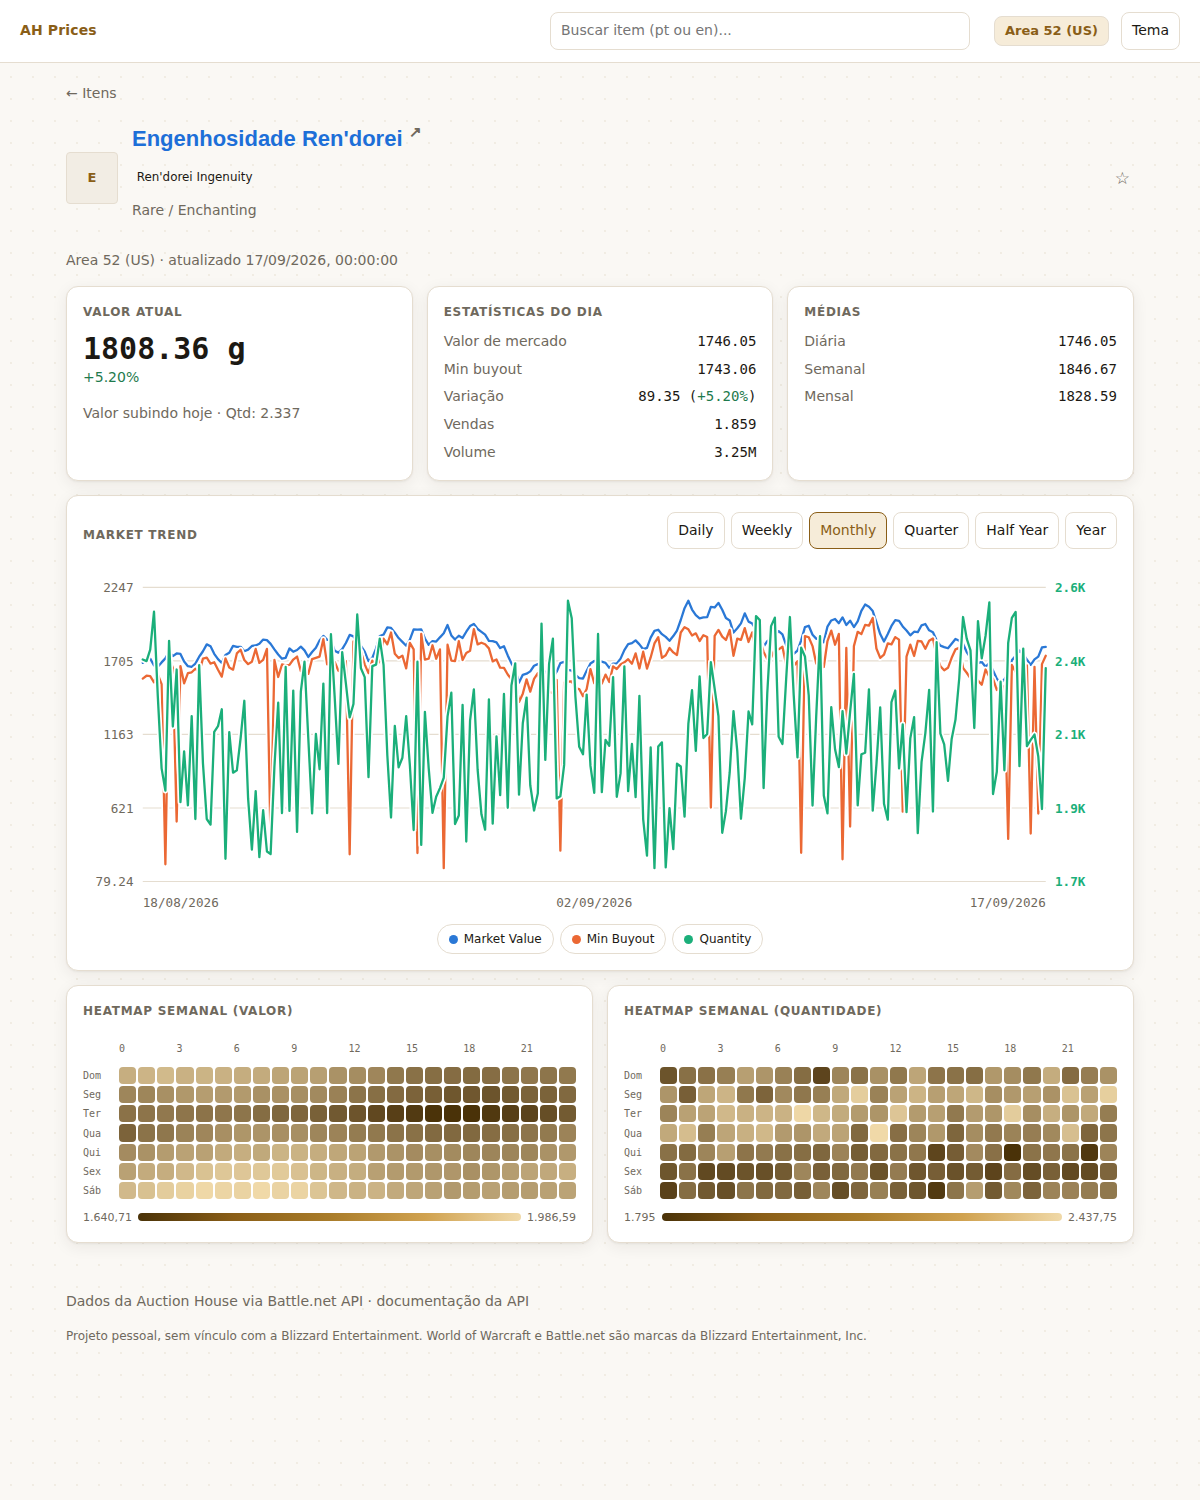
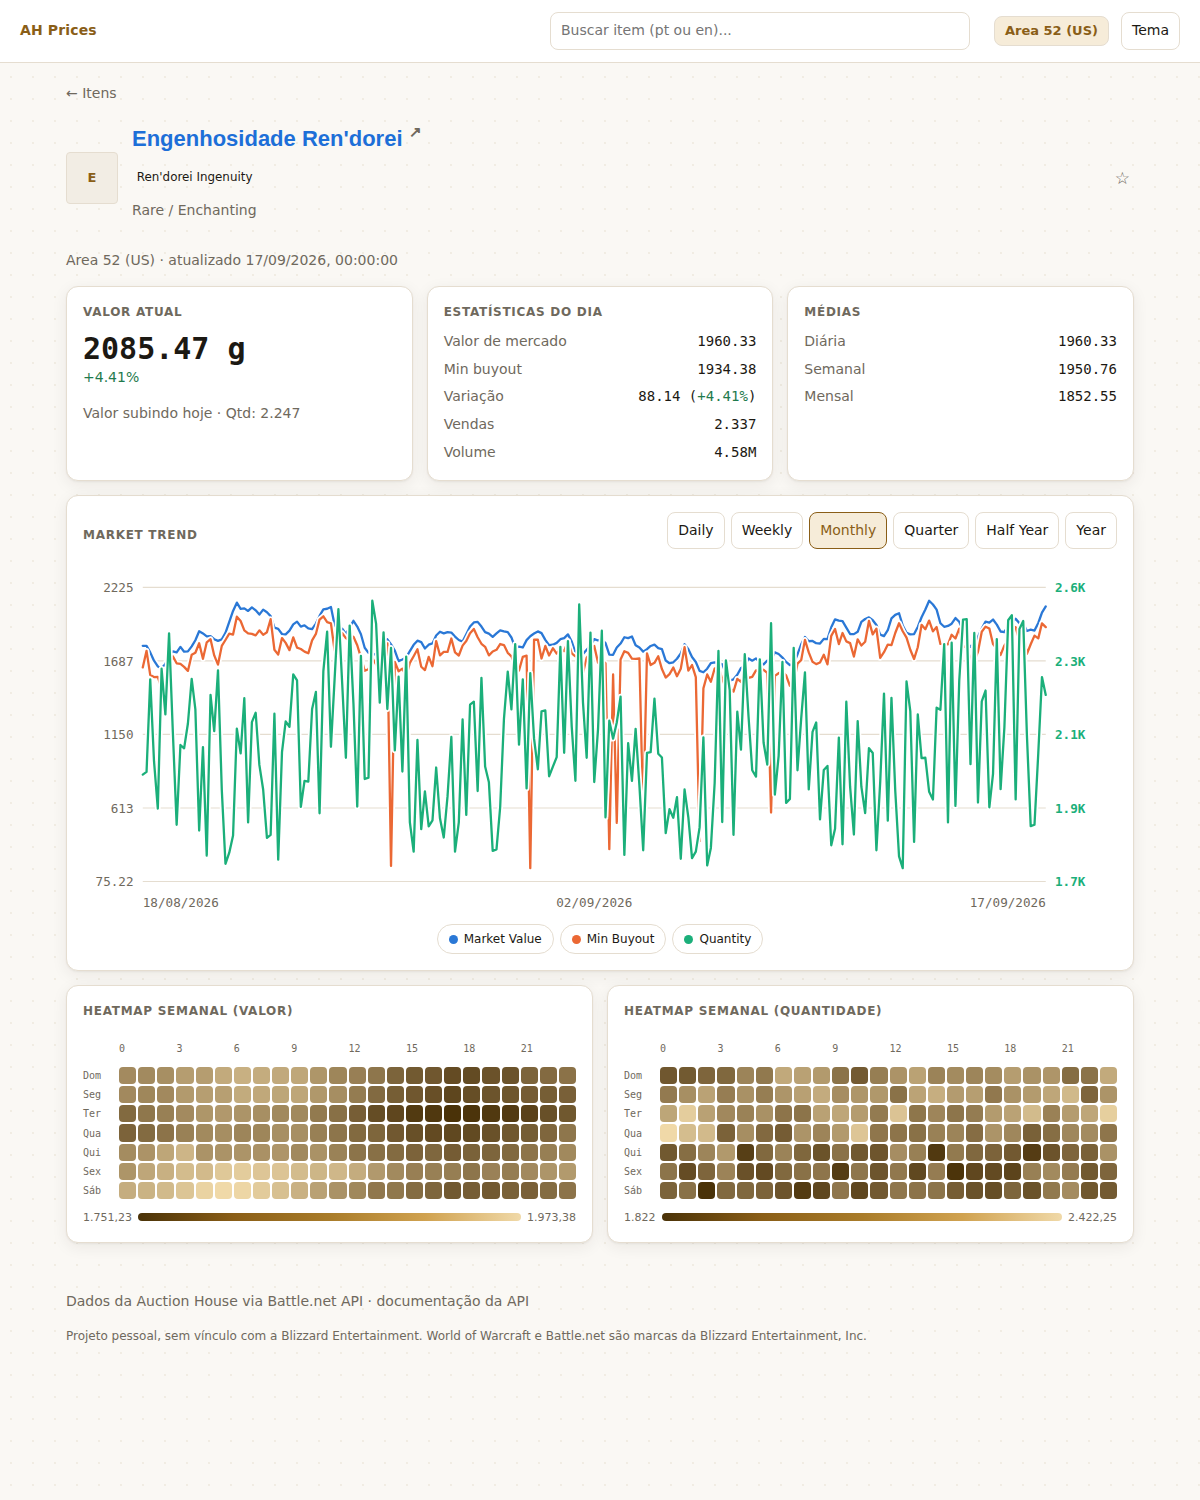
feat: icone com degradacao graciosa e decisao documentada
A arte dos itens e da Blizzard: o banco guarda a URL do CDN deles, nunca o
arquivo. Quando a URL falha, um onerror troca pelo quadrado com a inicial em
vez de deixar o icone de imagem quebrada do navegador.

Acrescenta teste da rota /realm e da regiao padrao (rotas em 100%).

Claude-Session: https://claude.ai/code/session_01HUPBDTitYFqBkdeTtwPzfT

diff --git a/frontend/js/app.js b/frontend/js/app.js
@@ -58,11 +58,31 @@ const linkWowhead = (i, conteudo, classe = "") =>
   `<a class="wh ${classe}" href="https://www.wowhead.com/item=${i.id}"
       data-wowhead="item=${i.id}" rel="noopener">${conteudo}</a>`;
 
-/** Ícone do item, ou um quadrado com a inicial quando a API não tem um. */
+/**
+ * Ícone do item.
+ *
+ * A arte é da Blizzard: o banco guarda a URL do CDN deles, nunca a imagem
+ * (ver docs/arquitetura.md#imagens-dos-itens). Guardar o arquivo no
+ * repositório seria redistribuir arte que não é nossa.
+ *
+ * Três estados, nesta ordem:
+ *  1. temos URL e ela carrega  -> o ícone de verdade;
+ *  2. temos URL e ela falha    -> o onerror troca pelo quadrado com a inicial,
+ *     em vez do ícone de imagem quebrada do navegador;
+ *  3. não temos URL (dado do seed, ou item ainda sem nome preenchido)
+ *     -> o quadrado direto.
+ */
+const inicial = (i, tam) =>
+  `<span class="icone-item vazio" style="width:${tam}px;height:${tam}px"
+         aria-hidden="true">${escapar(exibido(i)[0])}</span>`;
+
 const icone = (i, tam = 28) =>
   i.icon
-    ? `<img class="icone-item" width="${tam}" height="${tam}" loading="lazy" alt="" src="${escapar(i.icon)}">`
-    : `<span class="icone-item vazio" style="width:${tam}px;height:${tam}px" aria-hidden="true">${escapar(exibido(i)[0])}</span>`;
+    ? `<img class="icone-item" width="${tam}" height="${tam}" loading="lazy" alt=""
+           src="${escapar(i.icon)}"
+           onerror="this.outerHTML=this.dataset.reserva"
+           data-reserva="${escapar(inicial(i, tam))}">`
+    : inicial(i, tam);
 
 function debounce(fn, ms) {
   let t;

diff --git a/tests/api.test.py b/tests/api.test.py
@@ -143,3 +143,20 @@ def test_openapi_esta_publicado(client):
 
     assert r.status_code == 200
     assert "/api/items/{item_id}" in r.json()["paths"]
+
+
+def test_realm_devolve_o_realm_fixado(client):
+    r = client.get("/api/realm")
+    d = r.json()
+
+    assert r.status_code == 200
+    assert d["nome"] == "Area 52"
+    assert d["region"] == "us"
+    # O connected realm fica na configuração mesmo sem nada consumi-lo ainda:
+    # é o que os itens por realm vão usar. Ver docs/arquitetura.md.
+    assert d["connected_realm_id"] == 3676
+
+
+def test_region_padrao_e_a_do_realm(client):
+    # Sem passar ?region=, a resposta tem de vir da região do realm fixado.
+    assert client.get("/api/items/237361").json()["region"] == "us"

diff --git a/docs/arquitetura.md b/docs/arquitetura.md
@@ -80,6 +80,28 @@ armaduras, transmog), que usam `/data/wow/connected-realm/{id}/auctions` e aí
 sim têm preço por realm. É por isso que o `connected_realm_id` já está na
 configuração, embora hoje nada o consuma.
 
+## Imagens dos itens
+
+O banco guarda a **URL** do ícone, nunca o arquivo. A arte é da Blizzard, e
+baixá-la para o repositório seria redistribuir conteúdo que não é nosso. O
+caminho que todo site de WoW usa — e que a própria API oferece — é apontar para
+o CDN deles, e é o que a coluna `items.icon` faz: ela recebe o `value` do asset
+`icon` devolvido por `/data/wow/media/item/{id}`.
+
+Três estados no front, nesta ordem:
+
+1. **Temos URL e ela carrega** → o ícone de verdade.
+2. **Temos URL e ela falha** → um `onerror` troca pelo quadrado com a inicial,
+   em vez de deixar o ícone de imagem quebrada do navegador.
+3. **Não temos URL** → o quadrado direto. É o estado do dado do seed e do item
+   recém-ingerido cujo nome ainda não foi preenchido.
+
+O estado 3 não é defeito: o seed é ficção, e item fictício não tem arte. Rodar
+a ingestão com credenciais preenche os ícones sem tocar em código.
+
+O tooltip do Wowhead (ADR 0002) também mostra o ícone, mas do lado deles e só
+no hover; ele não alimenta esta coluna.
+
 ## Favoritos
 
 Ficam no `localStorage` do navegador, não no banco. O projeto não tem login, e
